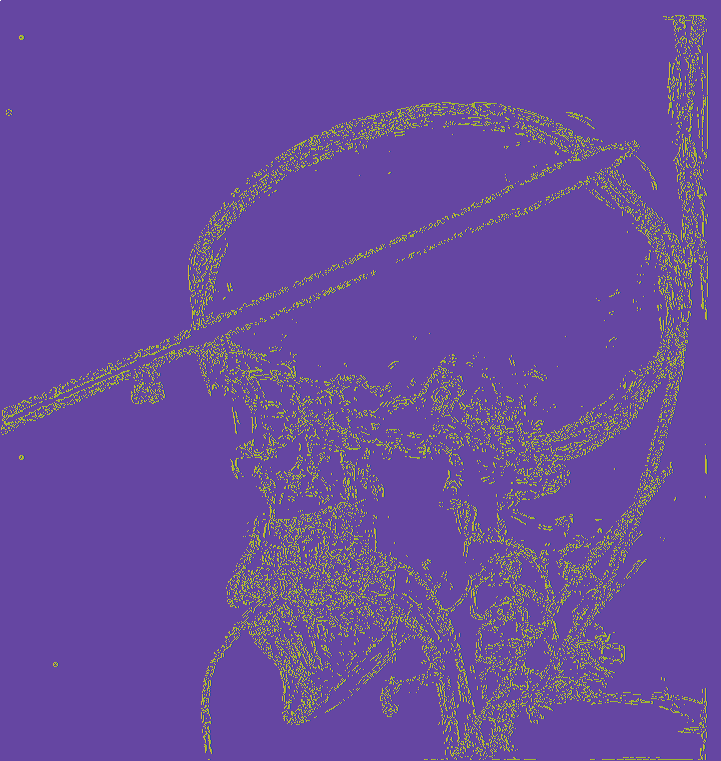
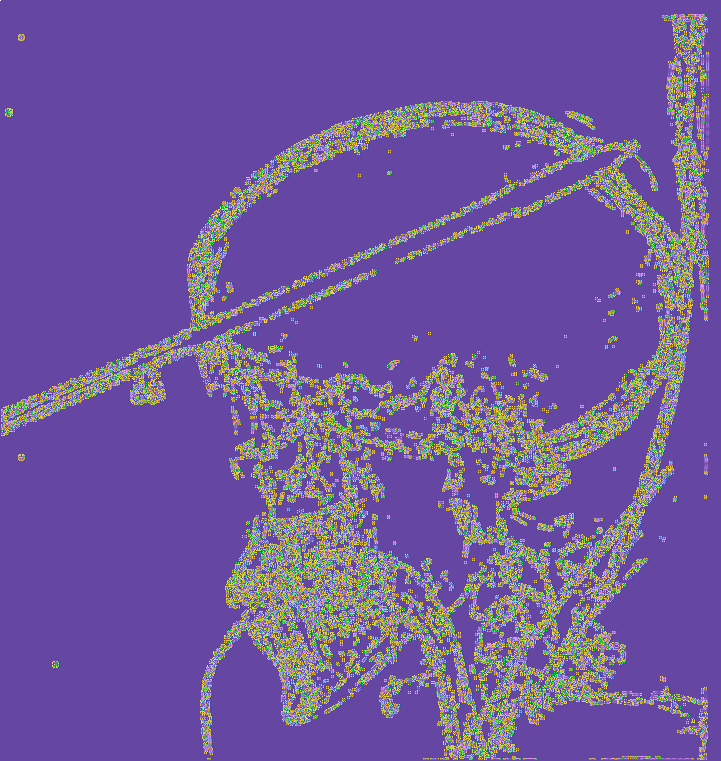
sgsps

diff --git a/1course.c b/1course.c
@@ -42,7 +42,7 @@ void preparation(char * od, int w, int h){
            for (j=0; j<w; j++) {
                 if (od[w*i + j]<100) od[w*i + j]=0;
 		else if (od[w*i + j]>168) od[w*i + j]=255;
-		else od[w*i + j]=128;
+	//	else od[w*i + j]=128;
            }
     return;
 }
@@ -161,7 +161,7 @@ int main() {
     char* image_0 = (char*)malloc(w*h*sizeof(char));
     char* image_1 = (char*)malloc(w*h*sizeof(char));
     char* image_2 = (char*)malloc(w*h*sizeof(char));
-    //char* image_3 = (char*)malloc(w*h*sizeof(char));
+    char* image_3 = (char*)malloc(w*h*sizeof(char));
     //char* image_4 = (char*)malloc(w*h*sizeof(char));
    // char* image_5 = (char*)malloc(w*h*sizeof(char));
    // char* image_6 = (char*)malloc(w*h*sizeof(char));
@@ -169,8 +169,9 @@ int main() {
 
     Sobel(image, image_0, w, h);
     Gauss(image_0, image_2, w, h);
-    Sobel(image_2, image_1, w, h);
-    preparation(image_1, w, h);
+    Sobel(image_2, image_3, w, h);
+    preparation(image_3, w, h);
+    Sobel(image_3, image_1, w, h);
     colouring(image_1, data, w, h, n);
   /*  int* comps = (int*)malloc((n*w*h)*sizeof(int));
     for (i=0; i < w*h; i++) comps[i] = 0;
